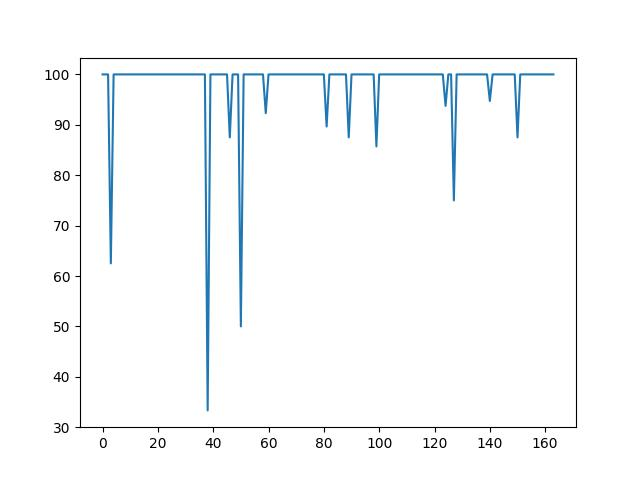
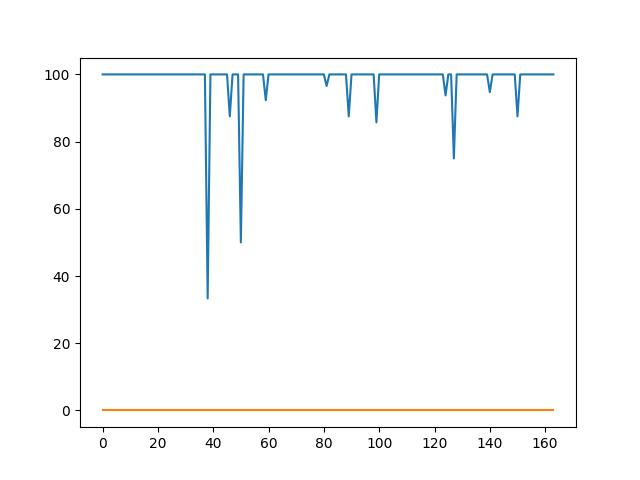
second edition: add api, generate, test

diff --git a/coverage_calculate.py b/coverage_calculate.py
@@ -1,5 +1,3 @@
-# import matplotlib
-# matplotlib.use('TkAgg')
 import matplotlib.pyplot as plt
 import coverage
 import unittest
@@ -10,26 +8,39 @@ from suppress_stdout import suppress_stdout_stderr
 # 实例化一个对象
 cov = coverage.coverage()
 
-result = []
+coverage_result = []
+excuting_result = []
 
 # 对每个测试用例进行覆盖率测试
 for i in tqdm(range(164)):
     with suppress_stdout_stderr(): # 此行用于屏蔽无关输出
         cov.start()
+        # 人工测试用例
         suite = unittest.defaultTestLoader.discover("./dataset", f"test_code_{i}.py")
-        unittest.TextTestRunner().run(suite)
+        # 生成测试用例
+        # suite = unittest.defaultTestLoader.discover("./dataset", f"generate_test_code_{i}.py")
+        try:
+            unittest.TextTestRunner().run(suite)
+        except:
+            excuting_result.append(1)
+        else:
+            excuting_result.append(0)
         # coverage_score = cov.report(morfs=f"source_code_{i}.py")
         # result.append(coverage_score)
         cov.stop()
         cov.save()
         coverage_score = cov.html_report(morfs=f"source_code_{i}.py", directory='result_html')
-        result.append(coverage_score)
+        coverage_result.append(coverage_score)
         cov.erase()
 
 # 处理结果
-plt.plot(result)
-plt.savefig('./result.jpg')
+plt.plot(coverage_result)
+plt.savefig('./official_covergae_result.jpg')
 plt.show()
+
+plt.hist(excuting_result)
+plt.savefig('./official_excuting_result.jpg')
 # print(result)
+# print(excuting_result)
 
 

diff --git a/python_file_generate.py b/python_file_generate.py
@@ -6,11 +6,19 @@ for problem_id, problem in problems.items():
     id = problem_id.split("/")[-1]
     print(id)
     # 创建源代码文件
-    with open(f"dataset/source_code_{id}.py", "w") as f:
-        f.write(problem['prompt'] + problem['canonical_solution'])
+
+    # with open(f"dataset/source_code_{id}.py", "w") as f:
+    #     f.write(problem['prompt'] + problem['canonical_solution'])
 
     # 创建测试代码文件
-    with open(f"dataset/test_code_{id}.py", "w") as f:
-        f.write("from source_code_" + id + f" import {problem['entry_point']}\n")
-        f.write(problem['test'])
-        f.write(f"check({problem['entry_point']})")
+    # with open(f"dataset/test_code_{id}.py", "w") as f:
+    #     f.write("from source_code_" + id + f" import {problem['entry_point']}\n")
+    #     f.write(problem['test'])
+    #     f.write(f"check({problem['entry_point']})")
+
+    # 创建生成代码文件
+    with open(f"dataset/generate_test_code_{id}.py", "w") as f:
+        f.write("from source_code_" + id + f" import {problem['entry_point']}\n\n")
+        with open(f"generate_data/gtest_code_{id}.py", "r") as g:
+            f.write(g.read())
+        f.write(f"\n\ncheck({problem['entry_point']})")

diff --git a/prompts.py b/prompts.py
@@ -1,0 +1,12 @@
+def simple_prompt(prompt: str) -> str:
+    return f"""Below is a Python code snippet with comments. Please write a test case for it. The test case is a function with a confirmed signature: "def check(candidate):" and please start with it.\n\nCode:\n{prompt}\n\nTest case:"""
+
+test_case = "def check(candidate):\n    assert candidate([1.0, 2.0, 3.9, 4.0, 5.0, 2.2], 0.3) == True\n    assert candidate([1.0, 2.0, 3.9, 4.0, 5.0, 2.2], 0.05) == False"
+
+def instruct_prompt(prompt: str) -> str:
+    return f"""Below is an instruction that describes a task. Write a response that appropriately completes the request.
+    \n\n### Instruction:\nWrite a test case for the following python code snippet.
+    \n{prompt}\n 
+    The test case should be a function with a confirmed signature: "def check(candidate):". 
+    Here is an example:\n {test_case}. 
+    \n\n### Response:"""

diff --git a/gpt_api.py b/gpt_api.py
@@ -1,0 +1,20 @@
+import os
+import openai
+from dotenv import load_dotenv
+ 
+# 加载.env文件中的环境变量
+load_dotenv()
+ 
+# openai.api_key = os.getenv("OPENAI_API_KEY")
+openai.api_key = "ak-HnOJaaZJcu2Ws6AwBMxmvwCiDSYMc5zWA7rEveQvpriLXToC"
+openai.api_base = os.getenv("OPENAI_API_BASE")
+
+
+# 常规使用gpt
+def gpt(content, model='gpt-3.5-turbo') -> str:
+    completion = openai.ChatCompletion.create(
+        model=model,
+        messages=[{"role": "user", "content": content}]
+        )
+        
+    return completion.choices[0].message.content
